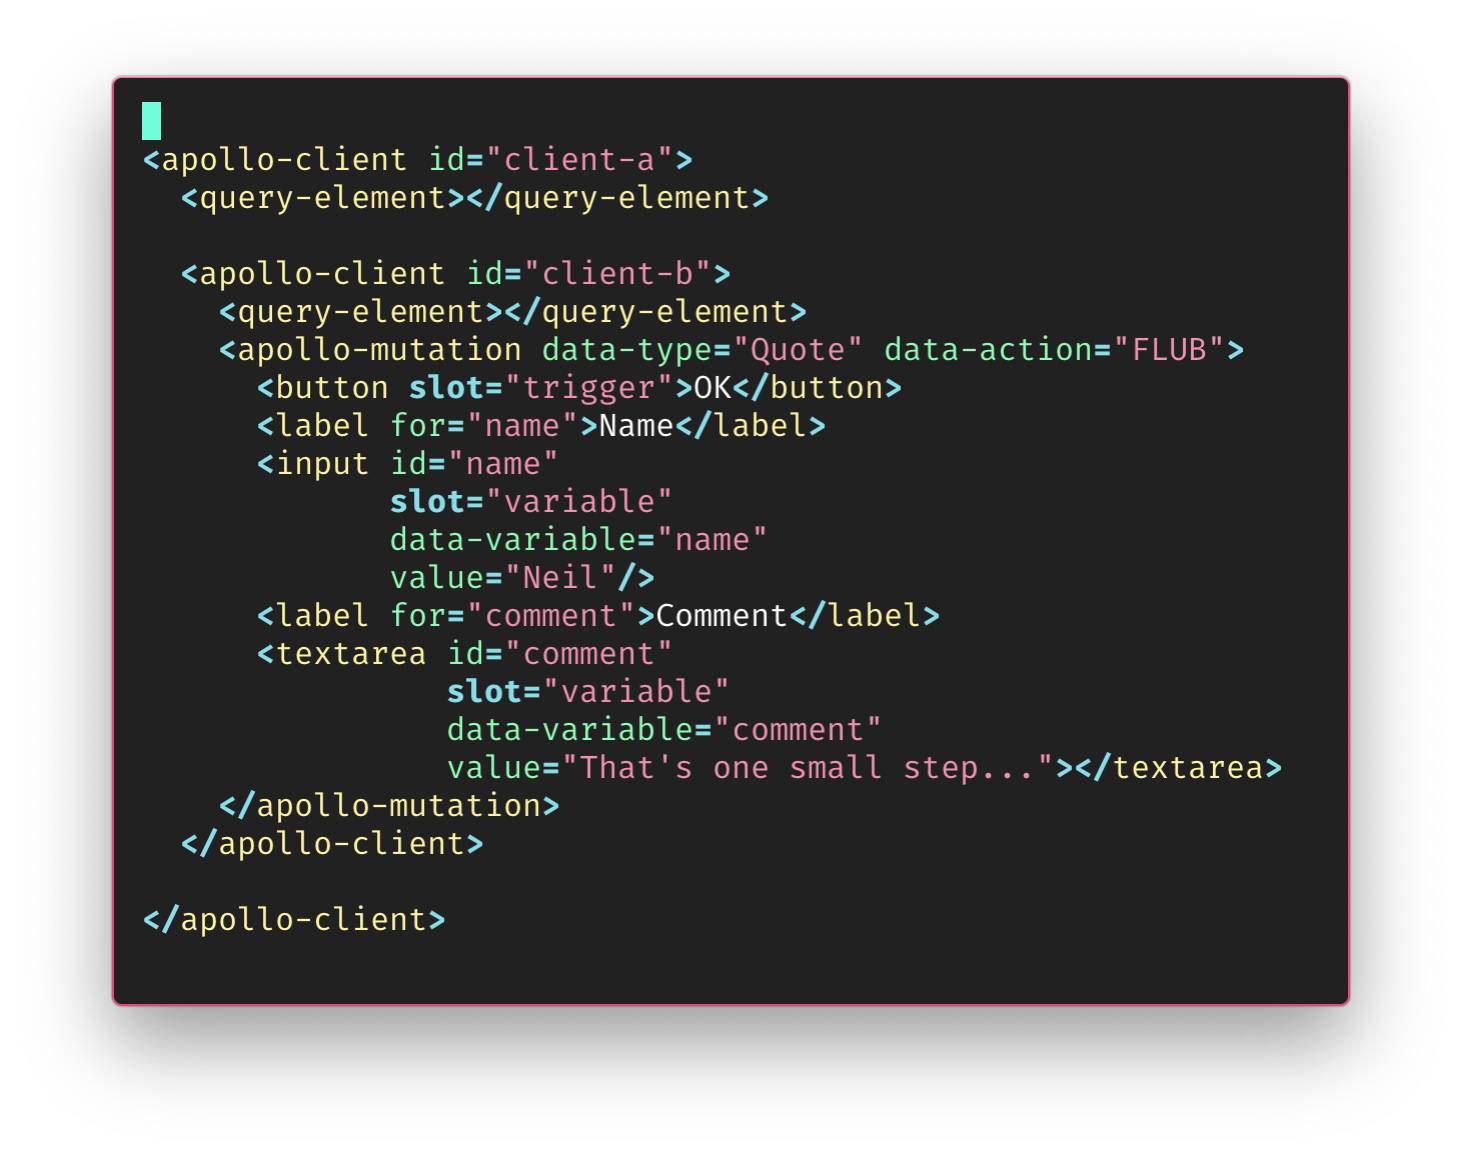
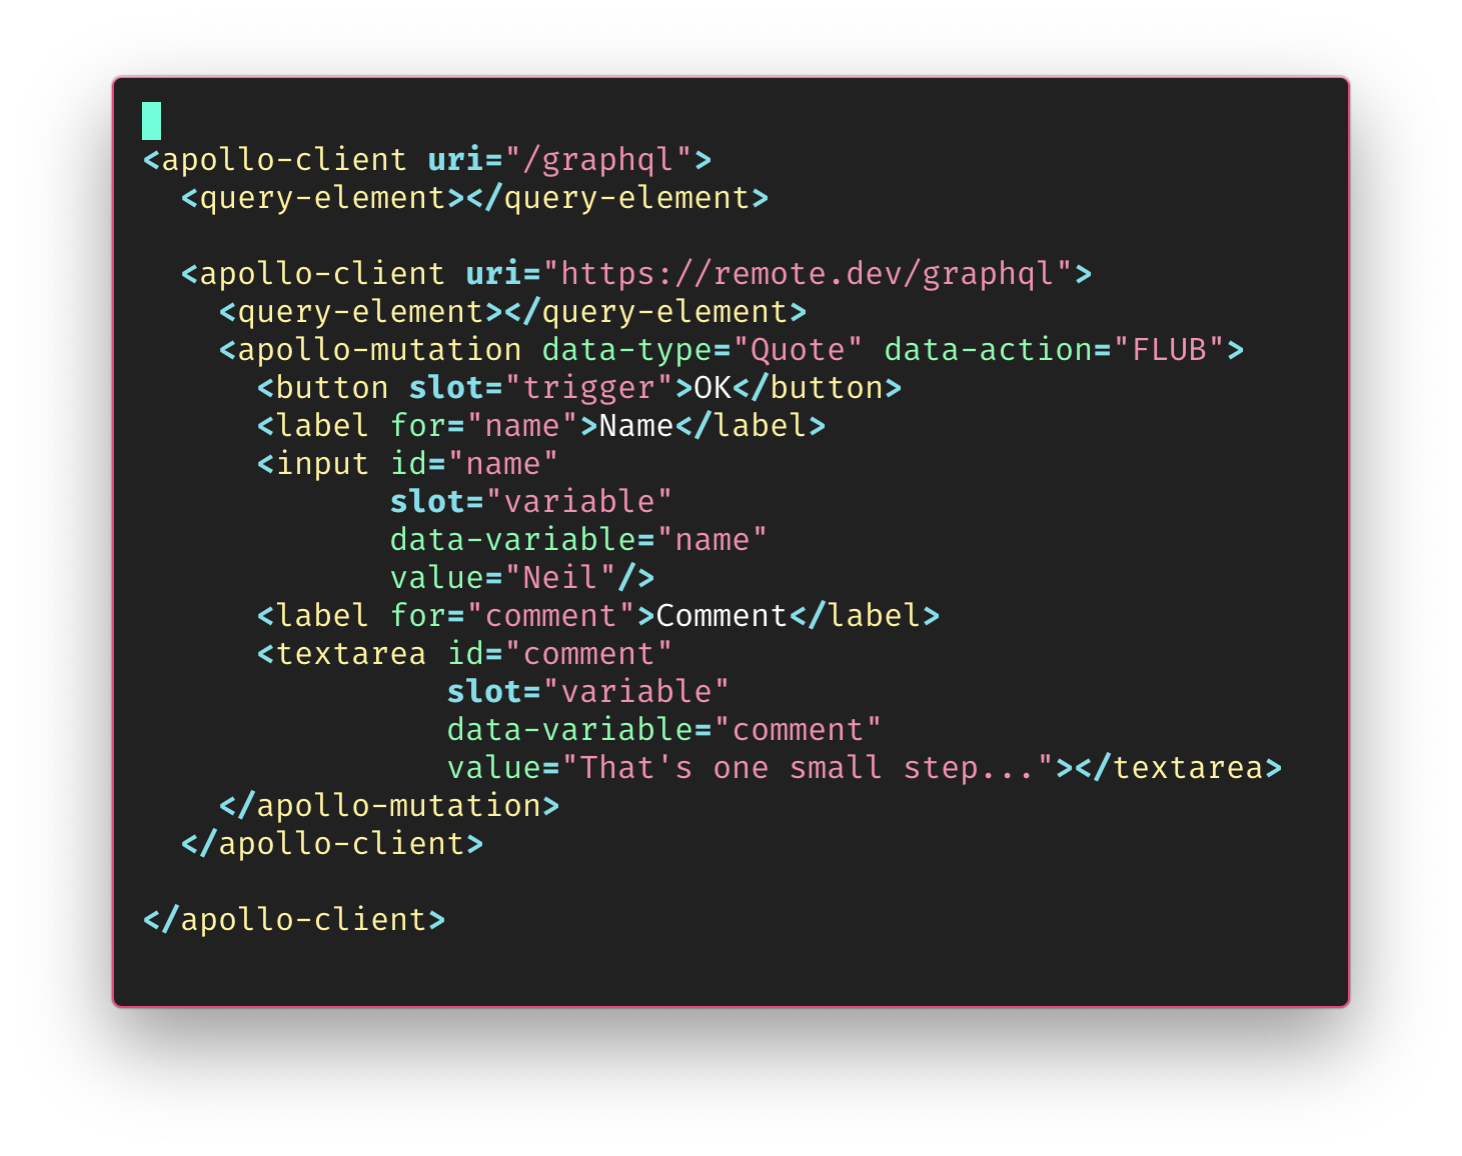
feat(components): generate simple client
affects: @apollo-elements/components, @apollo-elements/lib

<apollo-client uri="/graphql"> will generate it's own client

diff --git a/packages/components/apollo-client.test.ts b/packages/components/apollo-client.test.ts
@@ -2,11 +2,13 @@ import { ApolloElementInterface, ApolloQueryInterface } from '@apollo-elements/i
 import { ApolloElementMixin, ApolloQueryMixin } from '@apollo-elements/mixins';
 import { ApolloClient, NormalizedCacheObject } from '@apollo/client/core';
 
-import { html, fixtureSync, expect, nextFrame } from '@open-wc/testing';
+import { fixtureSync, expect, nextFrame, oneEvent, defineCE, aTimeout } from '@open-wc/testing';
 import { ApolloClientElement } from './apollo-client';
 
 import './apollo-client';
 import { makeClient, NoParamQueryData, NoParamQueryVariables } from '@apollo-elements/test-helpers';
+
+import { stub, SinonStub } from 'sinon';
 
 import NoParamQuery from '@apollo-elements/test-helpers/NoParam.query.graphql';
 
@@ -24,6 +26,14 @@ class DeepElement extends ApolloQueryMixin(HTMLElement) {
   query = NoParamQuery;
 }
 
+function mockFetch() {
+  stub(window, 'fetch');
+}
+
+function restoreFetch() {
+  (window.fetch as SinonStub).restore?.();
+}
+
 customElements.define('shallow-element', ShallowElement);
 customElements.define('deep-element', DeepElement);
 
@@ -39,11 +49,12 @@ describe('<apollo-client>', function() {
       cached = window.__APOLLO_CLIENT__;
       delete window.__APOLLO_CLIENT__;
       client = makeClient();
-      element = fixtureSync<ApolloClientElement>(html`
-        <apollo-client .client="${client}">
+      element = fixtureSync<ApolloClientElement>(/* html */`
+        <apollo-client>
           <shallow-element></shallow-element>
         </apollo-client>
       `);
+      element.client = client;
       shallow = element.querySelector('shallow-element');
       deep = shallow.shadowRoot.querySelector('deep-element');
       expect(window.__APOLLO_CLIENT__, 'no global client').to.be.undefined;
@@ -87,6 +98,57 @@ describe('<apollo-client>', function() {
           expect(deep.data).to.be.ok;
         });
       });
+    });
+  });
+
+  describe('with uri', function() {
+    beforeEach(mockFetch);
+    afterEach(restoreFetch);
+    it('creates a new client', async function() {
+      element = fixtureSync<ApolloClientElement>(/* html */`
+        <apollo-client uri="/graphql"></apollo-client>
+      `);
+      const { detail } = await oneEvent(element, 'client-changed');
+      expect(detail.value).to.be.an.instanceOf(ApolloClient);
+      expect(detail.value).to.eq(element.client);
+    });
+  });
+
+  describe('with uri and validate-variables', function() {
+    beforeEach(mockFetch);
+    afterEach(restoreFetch);
+    class ApolloQueryEl extends ApolloQueryMixin(HTMLElement)<unknown, unknown> { }
+    const tag = defineCE(ApolloQueryEl);
+    it('creates a new client', async function() {
+      element = fixtureSync<ApolloClientElement>(/* html */`
+        <apollo-client uri="/graphql" validate-variables>
+          <${tag}>
+            <script type="application/graphql">
+              query NonNull($nonNull: Boolean!, $nullable: Boolean) {
+                nonNull(nonNull: $nonNull, nullable: $nullable) {
+                  nonNull
+                  nullable
+                }
+              }
+            </script>
+            <script type="application/json">
+              {
+                "nullable": true
+              }
+            </script>
+          </${tag}>
+        </apollo-client>
+      `);
+
+      await aTimeout(100);
+
+      expect(element.querySelector<ApolloQueryEl>(tag).query).to.be.ok;
+      expect(element.querySelector<ApolloQueryEl>(tag).variables).to.be.ok;
+      expect(element.querySelector<ApolloQueryEl>(tag).observableQuery).to.be.ok;
+
+      // first call is to introspect, and occurs regardless of operations
+
+      expect(window.fetch).to.not.have.been.calledTwice;
     });
   });
 });

diff --git a/packages/components/apollo-client.ts b/packages/components/apollo-client.ts
@@ -1,6 +1,6 @@
 import type { ApolloElementInterface, ApolloQueryInterface } from '@apollo-elements/interfaces';
 import type { ApolloElementEvent } from '@apollo-elements/mixins/apollo-element-mixin';
-import type { ApolloClient, NormalizedCacheObject } from '@apollo/client/core';
+import type { ApolloClient, NormalizedCacheObject, TypePolicies } from '@apollo/client/core';
 
 declare global {
   interface HTMLElementTagNameMap {
@@ -51,6 +51,18 @@ function isSubscribable(element: ApolloElement): element is ApolloQueryInterface
  * even across (open) shadow boundaries.
  *
  * @example
+ * Generate a simple ApolloClient instance
+ * ```html
+ * <apollo-client uri="/graphql"></apollo-client>
+ * ```
+ *
+ * @example
+ * Prevent network calls when required variables are absent
+ * ```html
+ * <apollo-client uri="/graphql" validate-variables></apollo-client>
+ * ```
+ *
+ * @example
  * Providing a client to a tree of Nodes
  * ```html
  * <apollo-client id="client-a">
@@ -76,11 +88,50 @@ function isSubscribable(element: ApolloElement): element is ApolloQueryInterface
  * ```
  */
 export class ApolloClientElement extends HTMLElement {
+  static readonly observedAttributes = ['uri'];
+
   /** Private reference to the `ApolloClient` instance */
   #client: ApolloClient<NormalizedCacheObject>;
 
   /** Private cache of child `ApolloElement`s */
   #instances: Set<ApolloElement> = new Set();
+
+  #typePolicies: TypePolicies;
+
+  /**
+   * TypePolicies for the client
+   */
+  get typePolicies(): TypePolicies {
+    return this.#typePolicies;
+  }
+
+  set typePolicies(typePolicies: TypePolicies) {
+    this.#typePolicies = typePolicies;
+    this.client?.cache?.policies?.addTypePolicies(typePolicies);
+  }
+
+  /**
+   * When the URI attribute is set, <apollo-client> will asynchronously
+   * create a new ApolloClient instance with some default parameters
+   * @attr uri
+   */
+  get uri(): string {
+    return this.getAttribute('uri');
+  }
+
+  set uri(uri: string) {
+    if (typeof uri !== 'string') return;
+    this.setAttribute('uri', uri);
+    this.createApolloClient();
+  }
+
+  /**
+   * When true, client will not fetch operations that do not have all their non-nullable variables set
+   * @attr validate-variables
+   */
+  get validateVariables(): boolean {
+    return this.hasAttribute('validate-variables');
+  }
 
   /**
    * Reference to the `ApolloClient` instance.
@@ -91,6 +142,7 @@ export class ApolloClientElement extends HTMLElement {
 
   set client(value: ApolloClient<NormalizedCacheObject>) {
     this.#client = value;
+    this.dispatchEvent(new CustomEvent('client-changed', { detail: { value, client: value } }));
     for (const instance of this.#instances)
       this.initialize(instance);
   }
@@ -110,11 +162,25 @@ export class ApolloClientElement extends HTMLElement {
     this.addEventListener('apollo-element-disconnected', this.onElementDisconnected.bind(this));
   }
 
+  attributeChangedCallback(attr: string, oldValue: string, newValue: string): void {
+    if (oldValue === newValue) return;
+    switch (attr) {
+      case 'uri': this.uri = newValue;
+    }
+  }
+
   connectedCallback(): void {
     this.findDeepInstances();
     if (!this.client) return;
     for (const instance of this.#instances)
       this.initialize(instance);
+  }
+
+  async createApolloClient(): Promise<ApolloClient<NormalizedCacheObject>> {
+    const { uri, typePolicies, validateVariables } = this;
+    const { createApolloClient } = await import('@apollo-elements/lib/create-apollo-client');
+    this.client = createApolloClient({ uri, typePolicies, validateVariables });
+    return this.client;
   }
 
   private findDeepInstances(): void {

diff --git a/packages/lib/create-apollo-client.ts b/packages/lib/create-apollo-client.ts
@@ -1,0 +1,33 @@
+import {
+  ApolloClient,
+  ApolloLink,
+  HttpLink,
+  InMemoryCache,
+  NormalizedCacheObject,
+  TypePolicies,
+} from '@apollo/client/core';
+import { hasAllVariables } from './has-all-variables';
+
+interface Options {
+  /** GraphQL endpoint URI */
+  uri: string;
+  /** Optional type policies to apply to the cache. */
+  typePolicies?: TypePolicies;
+  /** When true, client will not fetch operations that do not have all their non-nullable variables set */
+  validateVariables?: boolean;
+}
+
+const validateVariablesLink =
+  new ApolloLink((operation, forward) =>
+    hasAllVariables(operation) && forward(operation));
+
+/**
+ * Creates a simple ApolloClient
+ */
+export function createApolloClient(options: Options): ApolloClient<NormalizedCacheObject> {
+  const { uri, typePolicies, validateVariables } = options;
+  const cache = new InMemoryCache({ typePolicies });
+  const httpLink = new HttpLink({ uri });
+  const link = !validateVariables ? httpLink : ApolloLink.from([validateVariablesLink, httpLink]);
+  return new ApolloClient({ cache, link });
+}

diff --git a/pages/apollo-client.md b/pages/apollo-client.md
@@ -1,5 +1,6 @@
 <meta name="description" content="How to set up Apollo Client for use with Apollo Elements"/>
 
+If you don't need to
 Before your components can interact with your graph, you need to pass them an `ApolloClient` instance. Construct an instance by importing from `@apollo/client/core` (*note*: `@apollo/client` exports a bunch of react code, so if you leave off the `/core`, you might have TypeScript compilation errors, or larger bundle sizes)
 
 ```ts
@@ -16,7 +17,66 @@ export const client =
   new ApolloClient({ cache, link });
 ```
 
+You can use the `createApolloClient` helper from `@apollo-elements/lib/create-apollo-client` to create a simple apollo client like in the above example:
+
+```ts
+import { createApolloClient } from '@apollo-elements/lib/create-apollo-client';
+
+const client = createApolloClient({
+  uri: '/graphql',
+  validateVariables: true,
+  typePolicies: {
+    User: {
+      fields: {
+        fullName(_, { readField }) {
+          return `${readField('firstName')} ${readField('lastName')}`;
+        }
+      }
+    }
+  }
+});
+```
+
 Now that your client is ready, you need a way to connect your components to it. There are several options
+
+## `<apollo-client>` Element
+
+Import `@apollo-elements/components/apollo-client` and set it up on your page
+
+```html
+<apollo-client id="client">
+  <app-root></app-root>
+</apollo-client>
+```
+```ts
+import { client } from './specific-apollo-client';
+document.getElementById('client').client = client;
+```
+
+If you set the `uri` attribute, `<apollo-client>` will create its own client instance for you
+
+```html
+<apollo-client uri="/graphql" validate-variables>
+  <app-root></app-root>
+</apollo-client>
+```
+
+the `validate-variables` boolean attribute indicates that the client should not attempt to fetch any operation (e.g. query) that does not have all of its non-nullable variables set.
+
+Nested instances of `<apollo-client>` will control their own decendents
+
+```html
+<apollo-client id="client-a">
+  <query-element>
+    <!-- This element queries from client-a's endpoint -->
+  </query-element>
+  <apollo-client id="client-b">
+    <query-element>
+      <!-- This element queries from client-b's endpoint -->
+    </query-element>
+  </apollo-client>
+</apollo-client>
+```
 
 ## Global Client
 
@@ -44,33 +104,4 @@ interface Variables { /* ... */ }
 @customElement('connected-query')
 export class ConnectedQuery
   extends ApolloClientMixin(client, ApolloQuery)<Data, Variables> { /* ... */ }
-```
-
-## `<apollo-client>` Element
-
-Import `@apollo-elements/components/apollo-client` and set it up on your page
-
-```html
-<apollo-client id="client">
-  <app-root></app-root>
-</apollo-client>
-```
-```ts
-import { client } from './specific-apollo-client';
-document.getElementById('client').client = client;
-```
-
-Nested instances of `<apollo-client>` will control their own decendents
-
-```html
-<apollo-client id="client-a">
-  <query-element>
-    <!-- This element queries from client-a's endpoint -->
-  </query-element>
-  <apollo-client id="client-b">
-    <query-element>
-      <!-- This element queries from client-b's endpoint -->
-    </query-element>
-  </apollo-client>
-</apollo-client>
 ```

diff --git a/packages/lib/README.md b/packages/lib/README.md
@@ -6,6 +6,24 @@
 
 Helper functions for Apollo Elements
 
+## createApolloClient
+Creates a simple ApolloClient instance given a URI and some params.
+
+```ts
+createApolloClient({
+  uri: '/graphql',
+  typePolicies: {
+    User: {
+      fields: {
+        fullName(_, { readField }) {
+          return `${readField('firstName')} ${readField('lastName')}`;
+        }
+      }
+    }
+  }
+});
+```
+
 ## hasAllVariables
 Predicate that validates a GraphQL request (a `DocumentNode` and a variables object) as having all of its required (i.e. non-nullable) variables defined.
 
